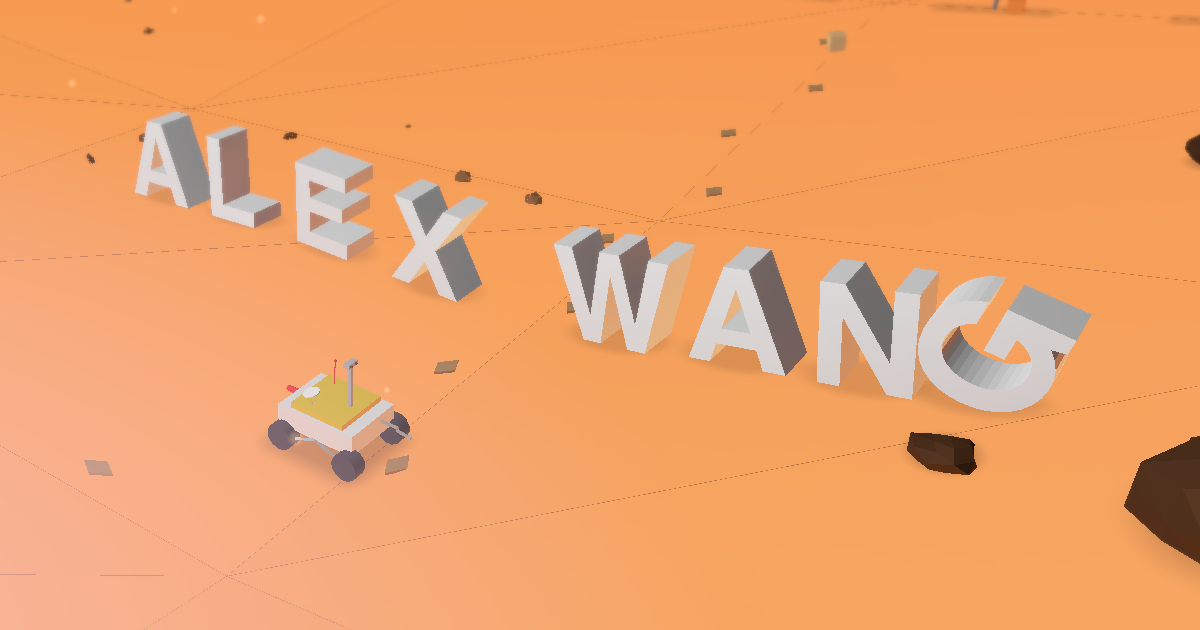
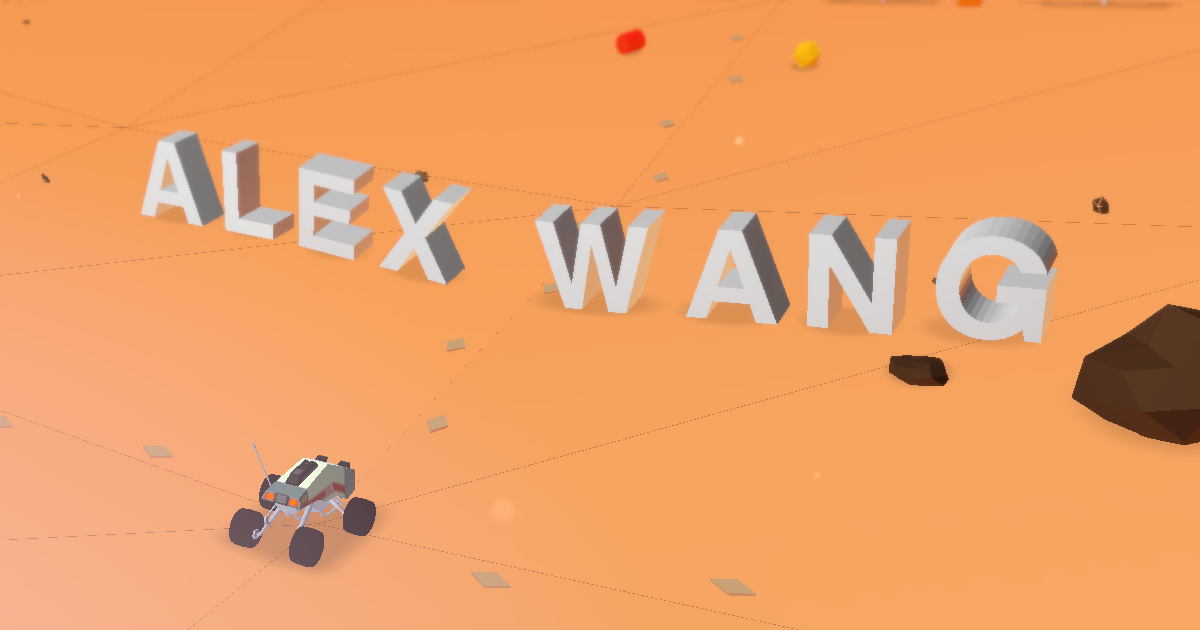
Update link preview image, add web manifest

diff --git a/vite.config.ts b/vite.config.ts
@@ -5,7 +5,8 @@ import fs from 'fs'
 import path from 'path'
 import { renderFallbackHtml } from './src/content/fallback'
 import { renderLoadingHtml } from './src/content/loading'
-import { SITE_URL } from './src/content/portfolio'
+import { renderStructuredData } from './src/content/structuredData'
+import { ABOUT, SITE_NAME, SITE_SHORT_NAME, SITE_URL } from './src/content/portfolio'
 
 /**
  * Writes the portfolio content into index.html as real markup.
@@ -20,6 +21,8 @@ function fallbackContent(): Plugin {
     name: 'portfolio-fallback-content',
     transformIndexHtml(html) {
       return html
+        .replace('</head>', `    ${renderStructuredData()}
+</head>`)
         .replace('<!--loading-screen-->', renderLoadingHtml())
         .replace('</body>', `${renderFallbackHtml()}\n</body>`)
     },
@@ -211,6 +214,33 @@ function seoFiles(): Plugin {
           '',
         ].join(`
 `),
+      })
+
+      // Android's "add to home screen" reads this; without it the launcher
+      // guesses a name from <title> and an icon from apple-touch-icon.
+      this.emitFile({
+        type: 'asset',
+        fileName: 'site.webmanifest',
+        source: JSON.stringify({
+          name: SITE_NAME,
+          short_name: SITE_SHORT_NAME,
+          description: ABOUT.tagline,
+          start_url: '/',
+          scope: '/',
+          // Launched from the home screen it opens without browser chrome,
+          // which suits a full-screen world. In a normal tab this is ignored.
+          display: 'standalone',
+          background_color: '#0a0504',
+          theme_color: '#0a0504',
+          icons: [
+            { src: '/icons/icon-192.png', sizes: '192x192', type: 'image/png', purpose: 'any' },
+            { src: '/icons/icon-512.png', sizes: '512x512', type: 'image/png', purpose: 'any' },
+            // Padded to the 80% safe circle, so a launcher that crops to its
+            // own shape takes the background rather than the monogram
+            { src: '/icons/icon-512-maskable.png', sizes: '512x512', type: 'image/png', purpose: 'maskable' },
+          ],
+        }, null, 2) + `
+`,
       })
 
       this.emitFile({

diff --git a/src/content/structuredData.ts b/src/content/structuredData.ts
@@ -1,0 +1,48 @@
+import { ABOUT, CONTACT_LINKS, PROJECTS, SITE_NAME, SITE_URL } from './portfolio'
+
+/**
+ * Schema.org data about the person whose site this is, as JSON-LD.
+ *
+ * This exists because of how the page is put together. The readable version of
+ * the portfolio is `display: none` whenever JavaScript runs, and crawlers do
+ * run it — so a rendered crawl sees a loading screen and little else. Whether
+ * that actually costs anything is a question for Search Console rather than
+ * guesswork, and nothing here changes that behaviour.
+ *
+ * What it does change is what a crawler can extract with no ambiguity at all.
+ * Structured data is read from the markup, not from the rendered page, so
+ * `display` never enters into it — and it states the things a search engine
+ * would otherwise have to infer from prose: who this is, what they do, where
+ * else they are, and what they have built.
+ *
+ * Runs in the Vite config (Node), so it must stay free of browser imports.
+ */
+export function renderStructuredData(): string {
+    const sameAs = CONTACT_LINKS
+        .filter((link) => link.url.startsWith('http'))
+        .map((link) => link.url)
+
+    const data = {
+        '@context': 'https://schema.org',
+        '@type': 'Person',
+        name: SITE_NAME,
+        url: `${SITE_URL}/`,
+        description: ABOUT.tagline,
+        jobTitle: 'Robotics and AI Engineer',
+        alumniOf: {
+            '@type': 'CollegeOrUniversity',
+            name: 'University of Toronto',
+        },
+        sameAs,
+        // Listed as work rather than as pages: these are things built, and
+        // most of them live on someone else's domain
+        subjectOf: PROJECTS.map((project) => ({
+            '@type': 'CreativeWork',
+            name: project.title,
+            description: project.description,
+            url: project.url,
+        })),
+    }
+
+    return `<script type="application/ld+json">${JSON.stringify(data)}</script>`
+}

diff --git a/src/content/loading.ts b/src/content/loading.ts
@@ -17,7 +17,11 @@ import { FULL_NAME, TAGLINE } from './portfolio'
 export function renderLoadingHtml(): string {
     return `
     <div class="loading-screen">
-        <h1 class="loading-title">${escapeHtml(FULL_NAME)}</h1>
+        <!-- Deliberately not a heading. It repeats the page title as decoration,
+             and a second h1 competes with the real one in the readable version
+             below — visible to the outline and to screen readers now that this
+             screen is no longer aria-hidden. -->
+        <p class="loading-title">${escapeHtml(FULL_NAME)}</p>
         <p class="loading-subtitle">${escapeHtml(TAGLINE)}</p>
         <div class="loading-progress loading-progress--indeterminate">
             <div class="loading-progress-fill"></div>

diff --git a/src/content/portfolio.ts b/src/content/portfolio.ts
@@ -17,6 +17,14 @@
 export const SITE_URL = 'https://alexanderwang.io'
 
 export const FULL_NAME = 'ALEXANDER WANG'
+/**
+ * Title-case forms, for places the all-caps display name would read as
+ * shouting: the browser tab, and the label under a home-screen icon.
+ * `SITE_SHORT_NAME` is kept under 12 characters, which is roughly where
+ * launchers start truncating.
+ */
+export const SITE_NAME = 'Alexander Wang'
+export const SITE_SHORT_NAME = 'Alex Wang'
 /** Short form, built as physical block letters at spawn. */
 export const BLOCK_LETTERS_NAME = 'ALEX WANG'
 export const TAGLINE = 'My World'

diff --git a/src/index.html b/src/index.html
@@ -41,6 +41,10 @@
          in main.css; the two need to stay in step. -->
     <meta name="theme-color" content="#0a0504">
 
+    <!-- Generated at build time by the seoFiles plugin, from the same
+         constants as everything else. -->
+    <link rel="manifest" href="/site.webmanifest">
+
     <!-- Set before first paint so the plain-HTML fallback below never flashes
          for visitors who are getting the 3D world. -->
     <script>document.documentElement.classList.add('has-js')</script>
